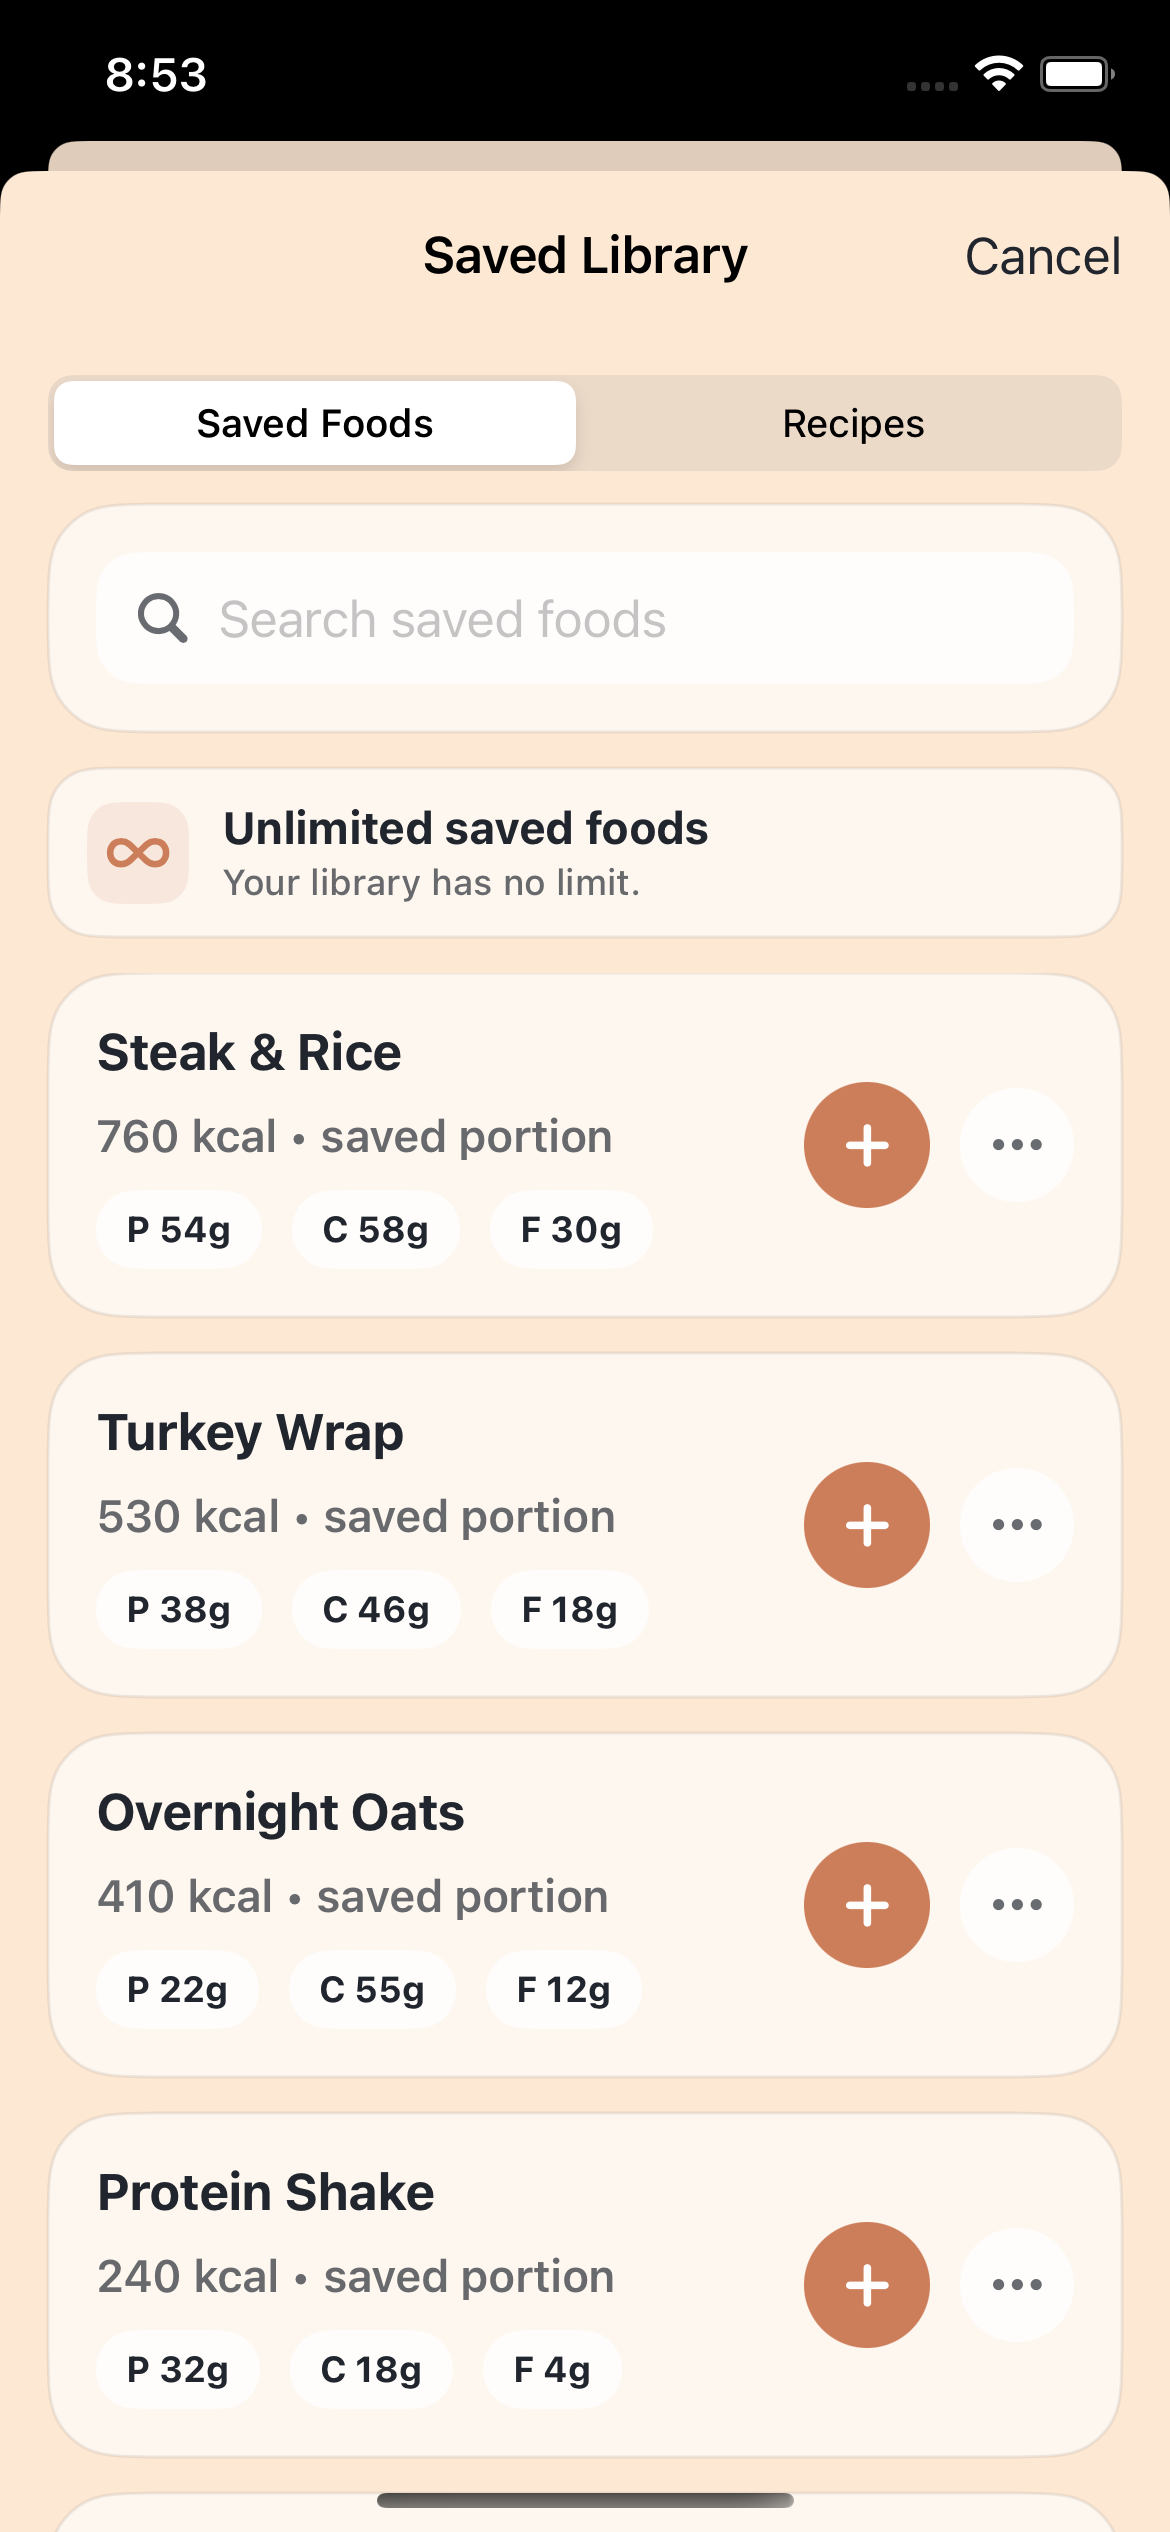
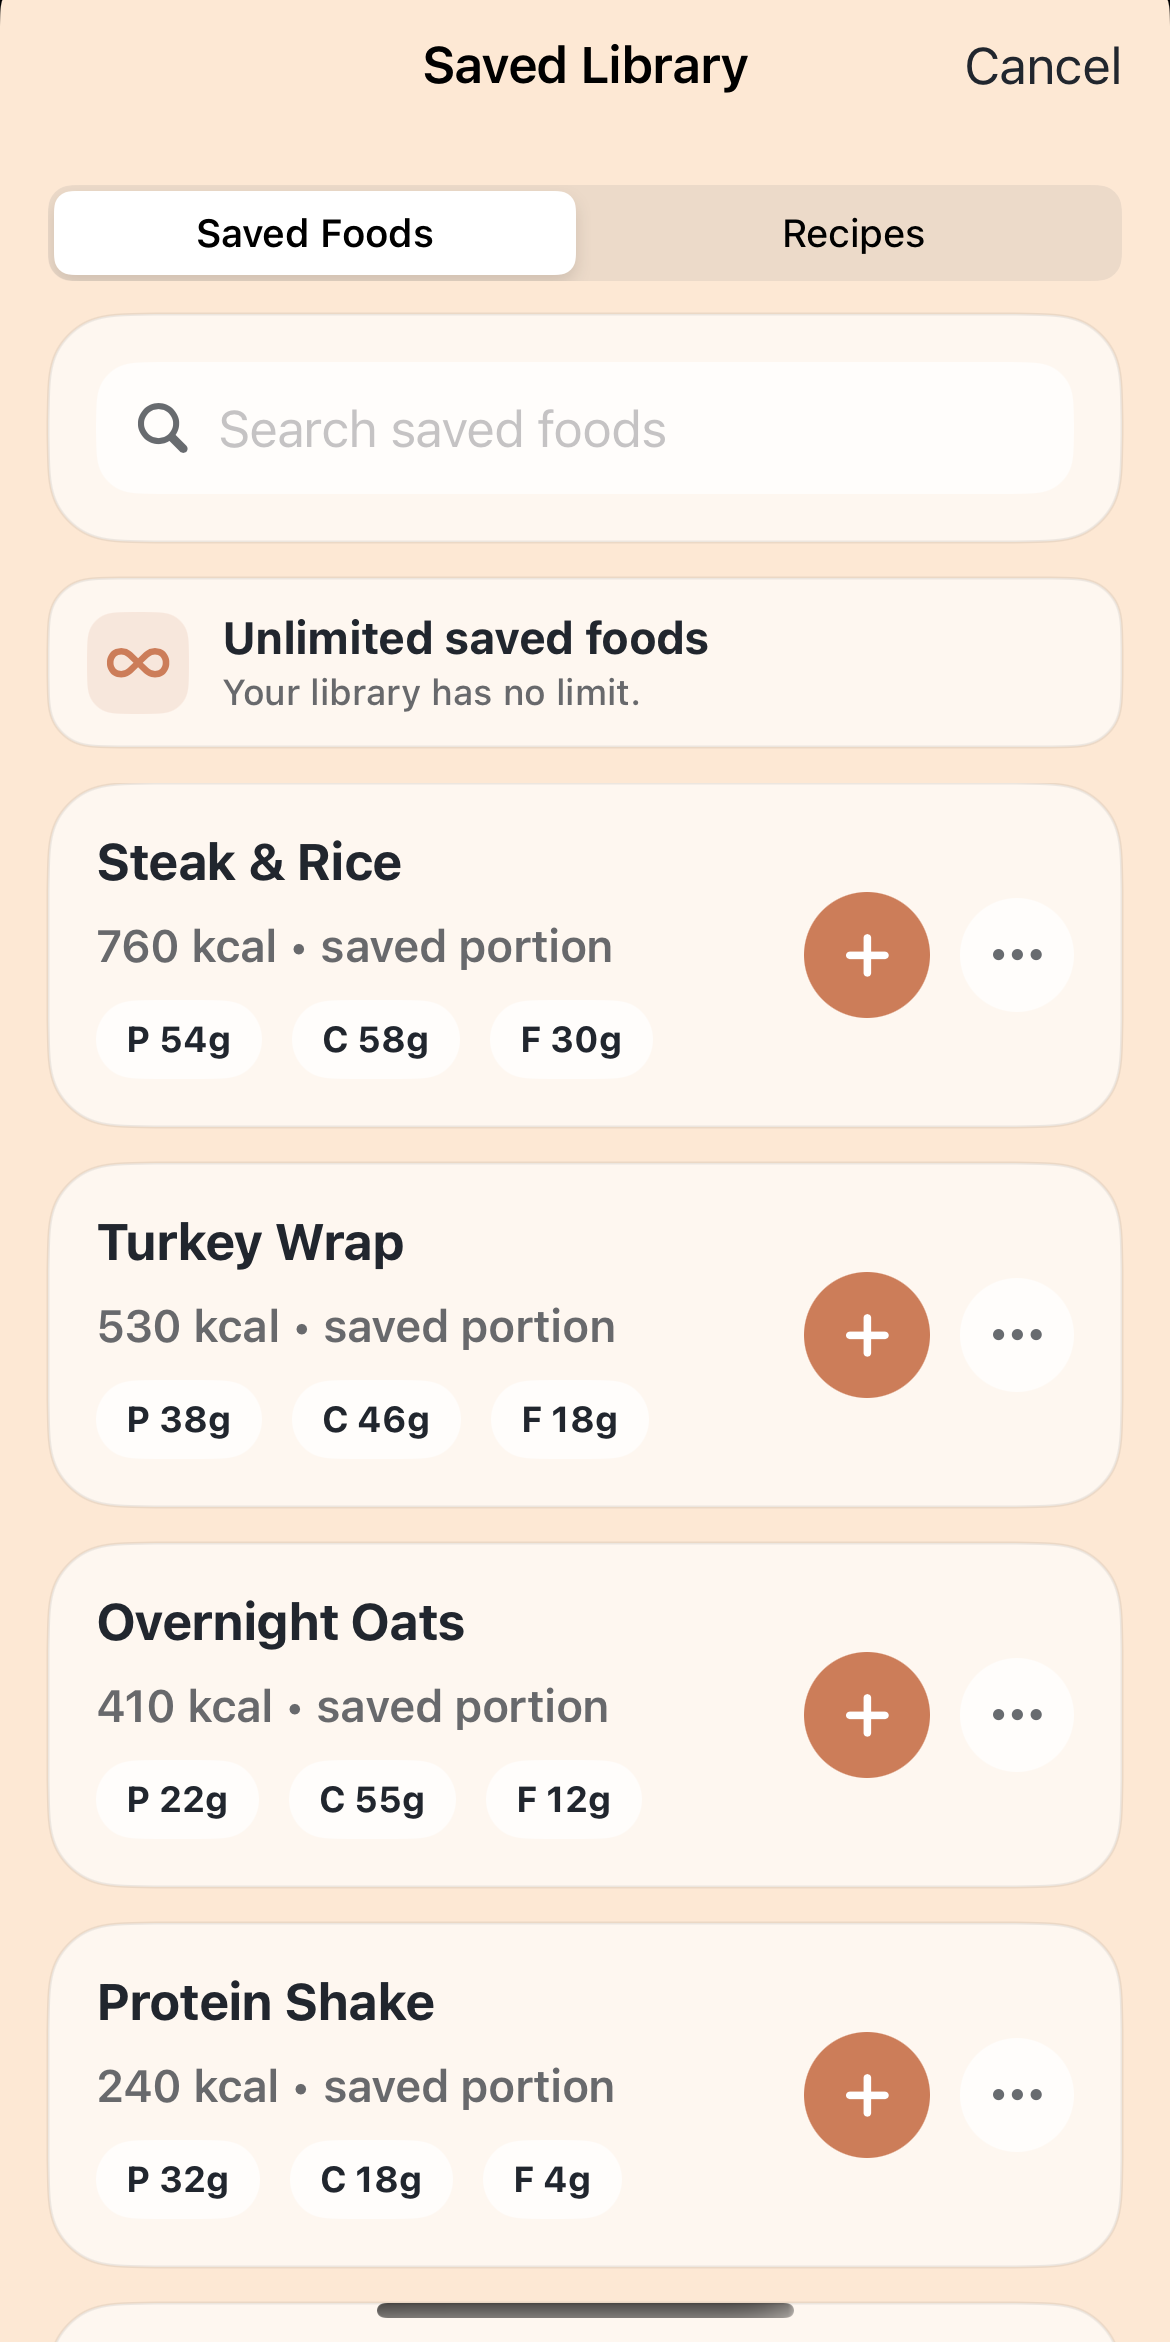
fix: refine food logging screenshots

diff --git a/src/app/globals.css b/src/app/globals.css
@@ -413,7 +413,7 @@ h3 {
 .logging-methods__screen {
   position: relative;
   overflow: hidden;
-  aspect-ratio: 1170 / 2532;
+  aspect-ratio: 1170 / 2342;
   border: 1px solid rgba(255, 255, 255, 0.2);
   border-radius: 19px;
   background: #e8ded4;
@@ -1539,6 +1539,21 @@ h3 {
   .process__inner { gap: 60px; }
   .faq__inner { gap: 58px; }
   .support-answers { gap: 50px; }
+}
+
+@media (min-width: 981px) and (max-width: 1080px) {
+  .logging-methods__rail {
+    grid-auto-columns: minmax(170px, 34vw);
+    grid-auto-flow: column;
+    grid-template-columns: unset;
+    overflow-x: auto;
+    margin-right: calc(-1 * ((100vw - min(100% - 48px, 1140px)) / 2));
+    padding: 0 calc((100vw - min(100% - 48px, 1140px)) / 2) 12px 0;
+    scroll-snap-type: x mandatory;
+    scrollbar-width: thin;
+  }
+
+  .logging-methods__card { scroll-snap-align: start; }
 }
 
 @media (max-width: 800px) {
